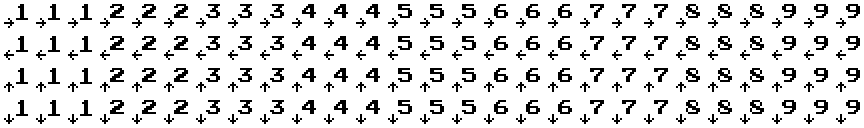
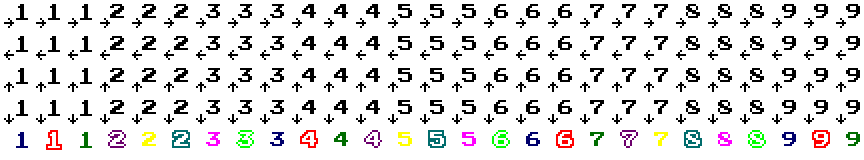
Se añadio la animacion de muerte a la imagen de puebas

Changed region(s): [[0.0, 0.2188, 1.0, 0.9688], [0.0, 0.0, 1.0, 0.1875], [0.0, 0.2188, 0.0625, 0.2812]]

diff --git a/pryTrabajoFinalGrupoUno/frmJuego.h b/pryTrabajoFinalGrupoUno/frmJuego.h
@@ -85,33 +85,33 @@ namespace pryTrabajoFinalGrupoUno {
 
 		}
 #pragma endregion
-	void sala1_nivel1() {
-
-	}
-	void sala2_nivel1() {
-
-	}
-	void sala3_nivel1() {
-
-	}
-	void sala4_nivel1() {
-		Bitmap^ bgS4N1 = gcnew Bitmap("img/mapa2.gif");
-	}
-	void sala5_nivel1() {
-
-	}
-	void sala6_nivel1() {
-
-	}
-	void sala7_nivel1() {
-
-	}
-	void sala8_nivel1() {
-
-	}
-	void sala9_nivel1() {
-
-	}
+	//void sala1_nivel1() {
+	//	Bitmap^ bgS1N1 = gcnew Bitmap("img/fondoS1N1_test1.png");
+	//}
+	//void sala2_nivel1() {
+	//	Bitmap^ bgS2N1 = gcnew Bitmap("img/fondoS2N1_test1.png");
+	//}
+	//void sala3_nivel1() {
+	//	Bitmap^ bgS3N1 = gcnew Bitmap("img/fondoS3N1_test1.png");
+	//}
+	//void sala4_nivel1() {
+	//	Bitmap^ bgS4N1 = gcnew Bitmap("img/fondoS4N1_test1.png");
+	//}
+	//void sala5_nivel1() {
+	//	Bitmap^ bgS5N1 = gcnew Bitmap("img/fondoS5N1_test1.png");
+	//}
+	//void sala6_nivel1() {
+	//	Bitmap^ bgS6N1 = gcnew Bitmap("img/fondoS6N1_test1.png");
+	//}
+	//void sala7_nivel1() {
+	//	Bitmap^ bgS7N1 = gcnew Bitmap("img/fondoS7N1_test1.png");
+	//}
+	//void sala8_nivel1() {
+	//	Bitmap^ bgS8N1 = gcnew Bitmap("img/fondoS8N1_test1.png");
+	//}
+	//void sala9_nivel1() {
+	//	Bitmap^ bgS9N1 = gcnew Bitmap("img/fondoS9N1_test1.png");
+	//}
 	private: System::Void timer_I_Tick(System::Object^ sender, System::EventArgs^ e) {
 		Graphics^ g = this->CreateGraphics();
 		BufferedGraphicsContext^ bfc = BufferedGraphicsManager::Current;

diff --git a/pryTrabajoFinalGrupoUno/Jugador.h b/pryTrabajoFinalGrupoUno/Jugador.h
@@ -5,6 +5,7 @@ enum SpriteJugador {
 	jCaminarIzquierda,
 	jCaminarArriba,
 	jCaminarAbajo,
+	jCapturado
 };
 class Jugador : public Personaje {
 private:
@@ -42,11 +43,18 @@ public:
 
 		if (dx != 0 || dy != 0)
 		{
-			if (movimiento >= jCaminarDerecha && movimiento <= jCaminarAbajo && (dx != 0 || dy != 0))
+			if (movimiento >= jCaminarDerecha && movimiento <= jCaminarAbajo && (dx != 0 || dy != 0)) {
 				// Cantidad de fotogramas en la imagen
 				// Cantidad regular: 9
-				// Fotogramas en "testing1_alt2": 27
+				// Fotogramas en "testing1_32_alt2": 27
 				IDx = (IDx + 1) % 27;
+			}
+			else if (movimiento == jCapturado) {
+				// Cantidad de fotogramas en la imagen
+				// Cantidad regular: 9
+				// Fotogramas en "testing1_32_alt2": 27
+				IDx = (IDx + 1) % 27;
+			}
 		}
 	}
 };
